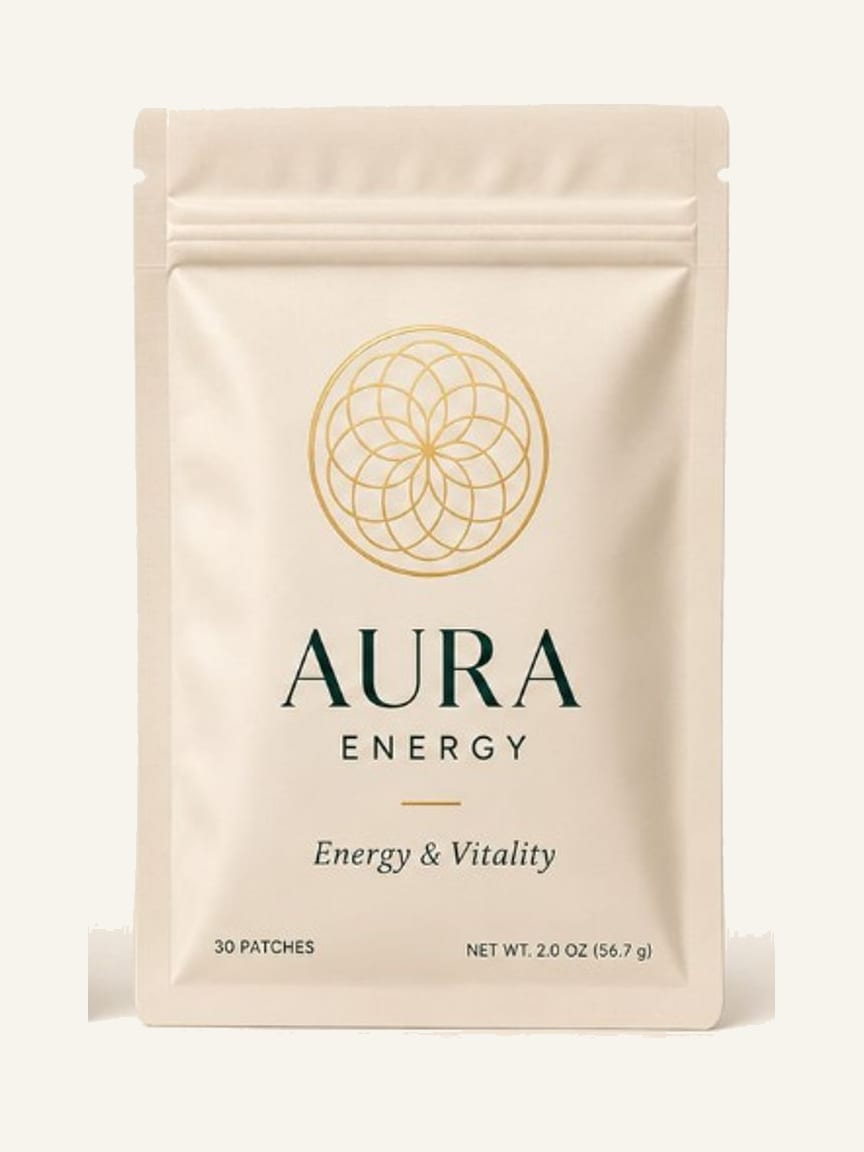
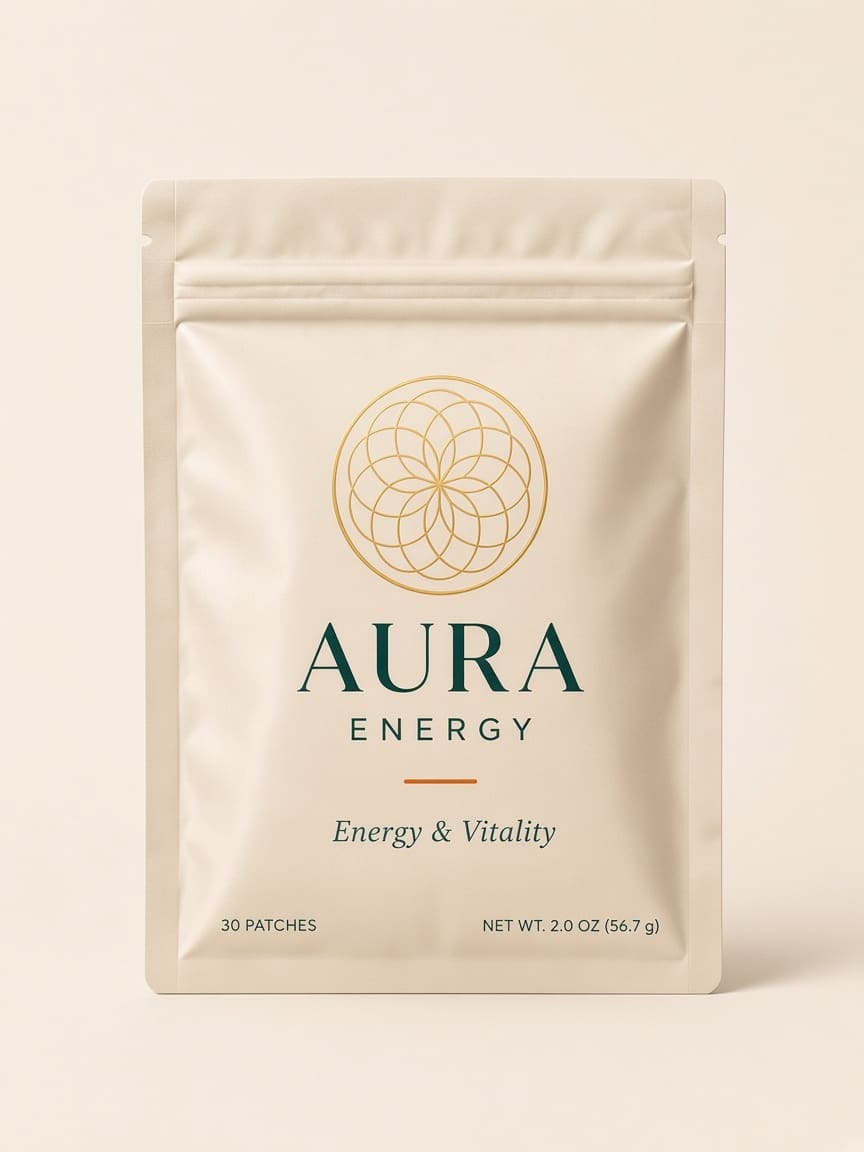
Keep gold as Aura's luxury language and add only small orange and plum sparks.
Swap in the new Core, Restore, and Energy packshots, compress them for SEO, and let the collection copy follow the three-formula ritual.

diff --git a/apps/storefront/src/lib/data/aura-collection.ts b/apps/storefront/src/lib/data/aura-collection.ts
@@ -13,11 +13,13 @@ export type AuraFormula = {
   categories: string
   subtitle: string
   description: string
+  accent: "ember" | "plum"
+  traits: string[]
   ingredients: string[]
 }
 
 export const AURA_COLLECTION_EYEBROW = "The Aura Collection"
-export const AURA_COLLECTION_LINE = "Three formulas. One Aura."
+export const AURA_COLLECTION_LINE = "Three formulas. One daily ritual."
 export const AURA_COLLECTION_SUPPORT =
   "Three targeted approaches to everyday wellness — same daily ritual, different moments in the day."
 
@@ -27,17 +29,19 @@ export const auraCollection: AuraFormula[] = [
     name: "Aura Core",
     shortName: "Core",
     tagline: "Your daily foundation.",
-    use: "Daily wellness",
+    use: "Daily Wellness",
     bestFor: "Everyday ritual",
     status: "available",
     href: "/products/aura-patch",
     image: "/images/aura-core-front.webp",
-    imageAlt: "Aura Core 30-day wellness pouch",
-    cardTone: "bg-[#e7eeea]",
-    categories: "Daily · Foundation · Ritual",
+    imageAlt: "Aura Core 30-day daily wellness pouch with gold mandala",
+    cardTone: "bg-[#dce8e4]",
+    categories: "Daily · Balance · Vitality",
     subtitle: "Daily wellness patch",
     description:
-      "Aura Core is the everyday Aura ritual: 19 ingredients in one patch, made to peel, apply, and wear for up to 12 hours. A 30-day pouch for the days that simply need a considered baseline.",
+      "Aura Core is the everyday Aura ritual: 19 ingredients in one daily patch. Peel, apply, go. Wear for up to 12 hours. A 30-day pouch for days that need a considered baseline.",
+    accent: "ember",
+    traits: ["Daily Wellness", "Balance", "Vitality"],
     ingredients: [
       "Stabilized Allicin",
       "Organic Ashwagandha",
@@ -64,18 +68,20 @@ export const auraCollection: AuraFormula[] = [
     key: "restore",
     name: "Aura Restore",
     shortName: "Restore",
-    tagline: "Recovery and renewal.",
-    use: "Recovery support",
+    tagline: "For recovery & renewal.",
+    use: "Recovery & Renewal",
     bestFor: "Quieter, replenishing days",
     status: "coming-soon",
     href: "/#formulations",
     image: "/images/aura-restore-front.webp",
-    imageAlt: "Aura Restore 30-day wellness pouch",
-    cardTone: "bg-[#e8ece0]",
-    categories: "Recovery · Renewal · Restore",
+    imageAlt: "Aura Restore 30-day recovery and renewal pouch with gold mandala",
+    cardTone: "bg-[#e4eadc]",
+    categories: "Recovery · Immune Support · Rejuvenation",
     subtitle: "Recovery & renewal patch",
     description:
-      "Aura Restore is a quieter formula for days that ask for replenishment. Same peel-and-apply patch, same 30-day pouch — arriving soon as part of the collection.",
+      "Aura Restore is a quieter formula for recovery and renewal. Same peel-and-apply patch, same 30-day pouch — arriving soon as part of the collection.",
+    accent: "plum",
+    traits: ["Recovery", "Immune Support", "Rejuvenation"],
     ingredients: [
       "Organic Ashwagandha",
       "Vitamin C",
@@ -93,18 +99,20 @@ export const auraCollection: AuraFormula[] = [
     key: "energy",
     name: "Aura Energy",
     shortName: "Energy",
-    tagline: "Energy and vitality.",
-    use: "Daily energy support",
+    tagline: "For energy & vitality.",
+    use: "Energy & Vitality",
     bestFor: "Brighter, more lifted days",
     status: "coming-soon",
     href: "/#formulations",
     image: "/images/aura-energy-front.webp",
-    imageAlt: "Aura Energy 30-day wellness pouch",
-    cardTone: "bg-[#f3efe4] ring-1 ring-aura-forest/15",
-    categories: "Energy · Vitality · Daily",
+    imageAlt: "Aura Energy 30-day energy and vitality pouch with gold mandala",
+    cardTone: "bg-[#f3eee6]",
+    categories: "Energy · Focus · Stamina",
     subtitle: "Energy & vitality patch",
     description:
-      "Aura Energy is a brighter daily ritual for ordinary days that need more lift. Same considered patch format, in a 30-day pouch — arriving soon.",
+      "Aura Energy is a brighter daily ritual for energy and vitality. Same considered patch format, in a 30-day pouch — arriving soon.",
+    accent: "ember",
+    traits: ["Energy", "Focus", "Stamina"],
     ingredients: [
       "BCAA + EAA Blend",
       "Organic Ashwagandha",
@@ -121,3 +129,9 @@ export const auraCollection: AuraFormula[] = [
 ]
 
 export const auraCore = auraCollection[0]
+
+export const formulaAccentBar = (accent: AuraFormula["accent"]) =>
+  accent === "plum" ? "bg-aura-plum" : "bg-aura-ember"
+
+export const formulaAccentText = (accent: AuraFormula["accent"]) =>
+  accent === "plum" ? "text-aura-plum" : "text-aura-ember"

diff --git a/apps/storefront/src/modules/home/components/collection-chooser/index.tsx b/apps/storefront/src/modules/home/components/collection-chooser/index.tsx
@@ -3,6 +3,8 @@ import {
   AURA_COLLECTION_LINE,
   AURA_COLLECTION_SUPPORT,
   auraCollection,
+  formulaAccentBar,
+  formulaAccentText,
 } from "@lib/data/aura-collection"
 import LocalizedClientLink from "@modules/common/components/localized-client-link"
 import Image from "next/image"
@@ -16,6 +18,7 @@ const CollectionChooser = ({ corePrice }: CollectionChooserProps) => (
     <div className="flex flex-col gap-8 small:flex-row small:items-end small:justify-between">
       <div>
         <p className="aura-eyebrow text-aura-gold">{AURA_COLLECTION_EYEBROW}</p>
+        <span className="mt-5 aura-spark" />
         <h2 className="aura-display mt-6 max-w-[760px] text-[50px] leading-none small:text-[64px]">
           {AURA_COLLECTION_LINE}
         </h2>
@@ -48,9 +51,17 @@ const CollectionChooser = ({ corePrice }: CollectionChooserProps) => (
               />
             </div>
             <div className="flex flex-col gap-4 px-7 pb-8 pt-1">
-              <p className="text-[11px] uppercase tracking-[0.18em] text-aura-gold">{formula.use}</p>
+              <p className={`text-[11px] uppercase tracking-[0.18em] ${formulaAccentText(formula.accent)}`}>{formula.use}</p>
               <h3 className="aura-display text-[34px] leading-none">{formula.name}</h3>
+              <span className={`block h-px w-10 ${formulaAccentBar(formula.accent)}`} />
               <p className="aura-display text-[22px] leading-tight text-aura-forest/80">{formula.tagline}</p>
+              <ul className="flex flex-wrap gap-x-4 gap-y-1">
+                {formula.traits.map((trait) => (
+                  <li key={trait} className="text-[10px] uppercase tracking-[0.16em] text-aura-forest/50">
+                    {trait}
+                  </li>
+                ))}
+              </ul>
               <p className="text-[14px] leading-6 text-aura-forest/65">
                 30 patches · {formula.use}
               </p>
@@ -60,7 +71,7 @@ const CollectionChooser = ({ corePrice }: CollectionChooserProps) => (
                     <p className="text-[15px] font-semibold">{corePrice}</p>
                   )}
                   <LocalizedClientLink href={formula.href} className="aura-button text-center">
-                    Choose {formula.name}
+                    Explore {formula.shortName}
                   </LocalizedClientLink>
                 </div>
               ) : (
@@ -85,14 +96,15 @@ const CollectionChooser = ({ corePrice }: CollectionChooserProps) => (
             key={formula.key}
             className={`px-7 py-8 small:px-10 ${index < auraCollection.length - 1 ? "border-b border-aura-forest/10 small:border-b-0 small:border-r" : ""}`}
           >
-            <p className="text-[11px] uppercase tracking-[0.18em] text-aura-gold">{formula.shortName}</p>
+            <p className={`text-[11px] uppercase tracking-[0.18em] ${formulaAccentText(formula.accent)}`}>{formula.shortName}</p>
+            <span className={`mt-3 block h-px w-8 ${formulaAccentBar(formula.accent)}`} />
             <p className="aura-display mt-4 text-[26px] leading-none">{formula.tagline}</p>
             <p className="mt-4 text-[14px] leading-6 text-aura-forest/65">Best for: {formula.bestFor}</p>
             <p className="mt-2 text-[14px] leading-6 text-aura-forest/65">30-day pouch</p>
             {formula.status === "available" ? (
               <LocalizedClientLink
                 href={formula.href}
-                className="mt-6 inline-flex text-[11px] font-bold uppercase tracking-[0.16em] underline decoration-aura-gold decoration-2 underline-offset-8"
+                className="mt-6 inline-flex text-[11px] font-bold uppercase tracking-[0.16em] underline decoration-aura-ember decoration-2 underline-offset-8"
               >
                 Shop {formula.shortName}
               </LocalizedClientLink>

diff --git a/apps/storefront/src/modules/home/components/hero/index.tsx b/apps/storefront/src/modules/home/components/hero/index.tsx
@@ -37,16 +37,17 @@ const Hero = ({ product }: HeroProps) => {
     <div className="bg-aura-cream text-aura-forest">
       <section className="aura-shell grid items-center gap-10 py-14 small:grid-cols-[1fr_0.8fr] small:py-16">
         <div className="max-w-[600px]">
-          <p className="aura-eyebrow">The Aura Collection</p>
+          <p className="aura-eyebrow text-aura-gold">The Aura Collection</p>
+          <span className="mt-5 aura-spark" />
           <h1 className="aura-display mt-6 text-[50px] leading-[1.04] small:text-[68px]">
-            Three formulas.<br />One Aura.
+            Three formulas.<br />One daily ritual.
           </h1>
           <p className="mt-7 max-w-[540px] text-[16px] leading-7 text-aura-forest/80">
             Core, Restore, and Energy — three daily rituals in one considered patch format. Peel, apply, go. Up to 12 hours. A 30-day pouch.
           </p>
           <div className="mt-8 flex flex-wrap gap-4">
-            <LocalizedClientLink href={productHref} className="aura-button">Shop Aura Core</LocalizedClientLink>
-            <a href="#collection" className="aura-button-outline">Compare formulas</a>
+            <LocalizedClientLink href={productHref} className="aura-button">Shop Aura</LocalizedClientLink>
+            <a href="#how-it-works" className="aura-button-outline">Learn how it works</a>
           </div>
         </div>
         <div className="relative mx-auto w-full max-w-[460px]">
@@ -54,7 +55,7 @@ const Hero = ({ product }: HeroProps) => {
               <div className="relative aspect-[4/5] overflow-hidden">
                 <Image
                   src="/images/aura-core-front.webp"
-                  alt="Aura Core 30-day pouch"
+                  alt="Aura Core 30-day daily wellness pouch with gold mandala"
                   fill
                   priority
                   className="object-contain transition-transform duration-700 group-hover:scale-[1.015]"
@@ -142,7 +143,7 @@ const Hero = ({ product }: HeroProps) => {
                 />
 
                 <div className="absolute right-[5%] top-[13%] hidden w-[250px] small:block">
-                  <span className="mb-3 block h-px w-24 bg-aura-gold" />
+                  <span className="mb-3 block h-px w-24 bg-aura-ember" />
                   <h3 className="aura-display text-[28px] leading-none">Protective outer layer</h3>
                   <p className="mt-3 text-[14px] leading-6 text-aura-forest/70">
                     Helps keep the ingredient matrix stable and effective.
@@ -150,7 +151,7 @@ const Hero = ({ product }: HeroProps) => {
                 </div>
 
                 <div className="absolute left-[5%] top-[45%] hidden w-[230px] text-right small:block">
-                  <span className="mb-3 ml-auto block h-px w-24 bg-aura-gold" />
+                  <span className="mb-3 ml-auto block h-px w-24 bg-aura-ember" />
                   <h3 className="aura-display text-[28px] leading-none">Ingredient matrix</h3>
                   <p className="mt-3 text-[14px] leading-6 text-aura-forest/70">
                     Holds Aura’s carefully formulated wellness ingredients.
@@ -158,7 +159,7 @@ const Hero = ({ product }: HeroProps) => {
                 </div>
 
                 <div className="absolute bottom-[11%] right-[6%] hidden w-[260px] small:block">
-                  <span className="mb-3 block h-px w-24 bg-aura-gold" />
+                  <span className="mb-3 block h-px w-24 bg-aura-ember" />
                   <h3 className="aura-display text-[28px] leading-none">Medical-grade adhesive</h3>
                   <p className="mt-3 text-[14px] leading-6 text-aura-forest/70">
                     Designed to stay securely in place for up to 12 hours.

diff --git a/apps/storefront/src/modules/home/components/ingredients-showcase/index.tsx b/apps/storefront/src/modules/home/components/ingredients-showcase/index.tsx
@@ -1,6 +1,12 @@
 import Image from "next/image"
 
-import { AURA_COLLECTION_EYEBROW, AURA_COLLECTION_LINE, AURA_COLLECTION_SUPPORT, auraCollection } from "@lib/data/aura-collection"
+import {
+  AURA_COLLECTION_EYEBROW,
+  AURA_COLLECTION_SUPPORT,
+  auraCollection,
+  formulaAccentBar,
+  formulaAccentText,
+} from "@lib/data/aura-collection"
 
 const IngredientsShowcase = () => (
   <div id="ingredients">
@@ -9,9 +15,22 @@ const IngredientsShowcase = () => (
       <div className="grid gap-10 small:grid-cols-[0.9fr_1.1fr] small:items-end">
         <div>
           <p className="aura-eyebrow text-aura-gold">{AURA_COLLECTION_EYEBROW}</p>
-          <h2 className="aura-display mt-6 text-[48px] leading-[1.02] tracking-[0.005em] small:text-[62px]">Three formulas.<br />One Aura.</h2>
+          <span className="mt-5 aura-spark" />
+          <h2 className="aura-display mt-6 text-[48px] leading-[1.02] tracking-[0.005em] small:text-[62px]">Three formulas.<br />One daily ritual.</h2>
         </div>
         <p className="max-w-[650px] text-[18px] leading-8 text-aura-cream/75 small:justify-self-end">{AURA_COLLECTION_SUPPORT}</p>
+      </div>
+
+      <div className="relative mt-12 overflow-hidden rounded-[1.75rem] bg-aura-cream">
+        <div className="relative aspect-[3/2] min-h-[240px] small:aspect-[16/10] small:min-h-[480px]">
+          <Image
+            src="/images/aura-collection.webp"
+            alt="The Aura Collection: Core, Restore, and Energy pouches"
+            fill
+            className="object-contain object-center p-4 small:p-8"
+            sizes="(max-width: 1023px) 100vw, 1320px"
+          />
+        </div>
       </div>
 
       <div className="mt-14 space-y-6">
@@ -27,9 +46,17 @@ const IngredientsShowcase = () => (
               <div className="p-6 small:p-9 medium:p-11">
                 <p className="text-[10px] font-semibold uppercase tracking-[0.2em] text-aura-gold">{product.categories}</p>
                 <h3 className="aura-display mt-5 text-[42px] leading-none tracking-[0.01em] small:text-[52px]">{product.name}</h3>
+                <span className={`mt-4 block h-px w-10 ${formulaAccentBar(product.accent)}`} />
                 <p className="mt-3 text-[14px] font-medium uppercase tracking-[0.12em] text-aura-cream/65">{product.subtitle}</p>
                 <p className="aura-display mt-8 text-[29px] leading-tight text-aura-gold">{product.tagline}</p>
                 <p className="mt-5 max-w-[760px] text-[14px] leading-6 text-aura-cream/72">{product.description}</p>
+                <ul className="mt-7 flex flex-wrap gap-x-6 gap-y-2">
+                  {product.traits.map((trait) => (
+                    <li key={trait} className={`text-[10px] font-semibold uppercase tracking-[0.18em] ${formulaAccentText(product.accent)}`}>
+                      {trait}
+                    </li>
+                  ))}
+                </ul>
                 <div className="mt-9 border-t border-aura-cream/15 pt-7">
                   <div className="flex items-baseline justify-between gap-5">
                     <h4 className="aura-display text-[28px]">Inside the formula</h4>

diff --git a/apps/storefront/src/modules/products/components/product-preview/index.tsx b/apps/storefront/src/modules/products/components/product-preview/index.tsx
@@ -62,11 +62,12 @@ export default async function ProductPreview({
       </LocalizedClientLink>
         <div className="mt-5 flex items-end justify-between gap-5 border-t border-aura-forest/15 pt-5">
           <div>
-            <p className="text-[11px] uppercase tracking-[0.18em] text-aura-gold">
+            <p className="text-[11px] uppercase tracking-[0.18em] text-aura-ember">
               {product.handle === "aura-patch" ? auraCore.use : "Daily wellness"}
             </p>
+            <span className="mt-3 aura-spark" />
             <LocalizedClientLink href={`/products/${product.handle}`}>
-              <h2 className="aura-display mt-2 text-[34px] leading-none transition-colors hover:text-aura-gold" data-testid="product-title">
+              <h2 className="aura-display mt-2 text-[34px] leading-none transition-colors hover:text-aura-ember" data-testid="product-title">
                 {product.handle === "aura-patch" ? auraCore.name : product.title}
               </h2>
             </LocalizedClientLink>
@@ -77,7 +78,7 @@ export default async function ProductPreview({
         </div>
         <div className="mt-6 flex items-center gap-3">
           {hasMultipleVariants ? (
-            <LocalizedClientLink href={`/products/${product.handle}`} className="flex min-h-12 flex-1 items-center justify-center rounded-full bg-aura-gold px-6 text-[11px] font-bold uppercase tracking-[0.15em] text-aura-forest transition-colors hover:bg-aura-forest hover:text-aura-cream">
+            <LocalizedClientLink href={`/products/${product.handle}`} className="flex min-h-12 flex-1 items-center justify-center rounded-full bg-aura-ember px-6 text-[11px] font-bold uppercase tracking-[0.15em] text-aura-cream transition-colors hover:bg-aura-forest hover:text-aura-cream">
               Choose options
             </LocalizedClientLink>
           ) : (

diff --git a/apps/storefront/src/app/[countryCode]/(main)/page.tsx b/apps/storefront/src/app/[countryCode]/(main)/page.tsx
@@ -11,7 +11,7 @@ export const metadata: Metadata = {
     "Aura Core is the everyday Aura ritual: 19 ingredients in one daily patch. Peel, apply, go. 30-day pouch.",
   openGraph: {
     title: "The Aura Collection — Core, Restore, Energy",
-    description: "Three formulas. One Aura. Start with Core, the daily wellness patch.",
+    description: "Three formulas. One daily ritual. Start with Core, the daily wellness patch.",
     images: ["/images/aura-core-front.jpeg"],
     type: "website",
     siteName: "Aura Patch",
@@ -19,7 +19,7 @@ export const metadata: Metadata = {
   twitter: {
     card: "summary_large_image",
     title: "The Aura Collection — Core, Restore, Energy",
-    description: "Three formulas. One Aura. Start with Core, the daily wellness patch.",
+    description: "Three formulas. One daily ritual. Start with Core, the daily wellness patch.",
   },
   alternates: {
     canonical: "https://www.getaurapatch.com/us",

diff --git a/apps/storefront/src/modules/store/components/buy-now-button.tsx b/apps/storefront/src/modules/store/components/buy-now-button.tsx
@@ -41,7 +41,7 @@ export default function BuyNowButton({
       type="button"
       onClick={buyNow}
       disabled={disabled || !variantId || status === "adding"}
-      className="mt-6 inline-flex min-h-12 items-center justify-center rounded-full bg-aura-gold px-8 text-[11px] font-bold uppercase tracking-[0.16em] text-aura-forest transition-colors hover:bg-aura-forest hover:text-aura-cream disabled:cursor-not-allowed disabled:opacity-50"
+      className="mt-6 inline-flex min-h-12 items-center justify-center rounded-full bg-aura-ember px-8 text-[11px] font-bold uppercase tracking-[0.16em] text-aura-cream transition-colors hover:bg-aura-forest hover:text-aura-cream disabled:cursor-not-allowed disabled:opacity-50"
       aria-live="polite"
     >
       {disabled

diff --git a/apps/storefront/src/modules/products/components/product-preview/quick-add-button.tsx b/apps/storefront/src/modules/products/components/product-preview/quick-add-button.tsx
@@ -42,7 +42,7 @@ export default function QuickAddButton({
       type="button"
       onClick={handleAdd}
       disabled={disabled || !variantId || status === "adding"}
-      className="flex min-h-12 flex-1 items-center justify-center rounded-full bg-aura-gold px-6 text-[11px] font-bold uppercase tracking-[0.15em] text-aura-forest transition-colors hover:bg-aura-forest hover:text-aura-cream disabled:cursor-not-allowed disabled:opacity-50"
+      className="flex min-h-12 flex-1 items-center justify-center rounded-full bg-aura-ember px-6 text-[11px] font-bold uppercase tracking-[0.15em] text-aura-cream transition-colors hover:bg-aura-forest hover:text-aura-cream disabled:cursor-not-allowed disabled:opacity-50"
       aria-live="polite"
     >
       {disabled

diff --git a/apps/storefront/src/modules/store/templates/index.tsx b/apps/storefront/src/modules/store/templates/index.tsx
@@ -39,11 +39,12 @@ const StoreTemplate = async ({
         <div className="grid gap-6 border-b border-aura-forest/15 pb-10 small:grid-cols-[1fr_0.7fr] small:items-end">
           <div>
             <p className="aura-eyebrow text-aura-gold">The Aura Collection</p>
+            <span className="mt-5 aura-spark" />
             <h1
               className="aura-display mt-5 text-[52px] leading-none small:text-[72px]"
               data-testid="store-page-title"
             >
-              Three formulas. One Aura.
+              Three formulas. One daily ritual.
             </h1>
           </div>
           <div className="max-w-[480px] small:justify-self-end">

diff --git a/apps/storefront/src/styles/globals.css b/apps/storefront/src/styles/globals.css
@@ -79,7 +79,11 @@
   }
 
   .aura-button {
-    @apply items-center justify-center rounded-full bg-aura-gold px-7 py-4 text-[13px] font-medium uppercase tracking-[0.12em] text-aura-forest transition-colors hover:bg-aura-forest hover:text-aura-cream;
+    @apply items-center justify-center rounded-full bg-aura-ember px-7 py-4 text-[13px] font-medium uppercase tracking-[0.12em] text-aura-cream transition-colors hover:bg-aura-forest hover:text-aura-cream;
+  }
+
+  .aura-spark {
+    @apply block h-px w-10 bg-aura-ember;
   }
 
   .aura-button-outline {

diff --git a/apps/storefront/src/modules/products/templates/product-info/index.tsx b/apps/storefront/src/modules/products/templates/product-info/index.tsx
@@ -21,9 +21,10 @@ const ProductInfo = ({ product }: ProductInfoProps) => {
             {product.collection.title}
           </LocalizedClientLink>
         )}
-        <p className="text-[11px] uppercase tracking-[0.18em] text-aura-gold">
+        <p className="text-[11px] uppercase tracking-[0.18em] text-aura-ember">
           {isCore ? auraCore.use : "Daily wellness"}
         </p>
+        <span className="aura-spark" />
         <Heading
           level="h2"
           className="aura-display text-[46px] leading-none text-aura-forest"

diff --git a/apps/storefront/src/modules/products/components/product-actions/index.tsx b/apps/storefront/src/modules/products/components/product-actions/index.tsx
@@ -305,7 +305,7 @@ export default function ProductActions({
           className={`w-full h-12 !rounded-full uppercase tracking-[0.12em] ${
             isAdding
               ? "!bg-aura-forest !text-aura-cream !opacity-100"
-              : "!bg-aura-gold !text-aura-forest hover:!bg-aura-forest hover:!text-aura-cream"
+              : "!bg-aura-ember !text-aura-cream hover:!bg-aura-forest hover:!text-aura-cream"
           }`}
           data-testid="add-product-button"
         >
